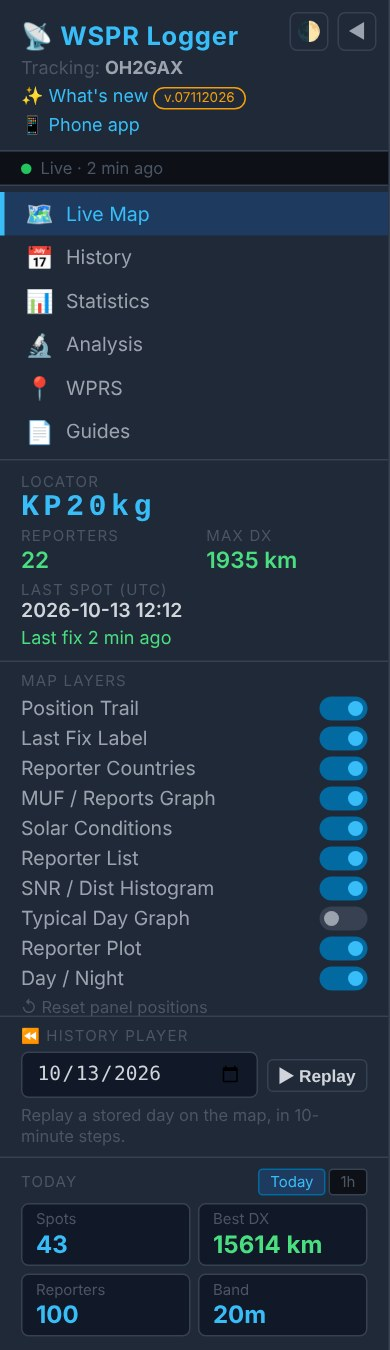
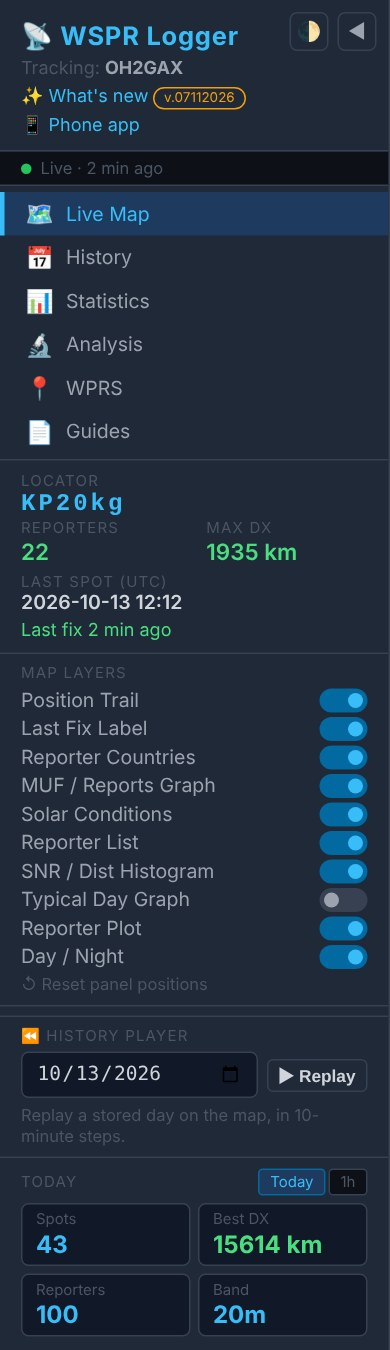
Live map UI tuning

diff --git a/static/css/app.css b/static/css/app.css
@@ -253,7 +253,7 @@ nav {
 }
 .lbl:first-child { margin-top: 0; }
 .val { font-size: 15px; font-weight: 600; color: var(--text-primary); }
-.val.mono { font-family: 'Courier New', monospace; font-size: 20px; line-height: 1.2; color: var(--accent); letter-spacing: 3px; }
+.val.mono { font-family: 'Courier New', monospace; font-size: 16px; line-height: 1.2; color: var(--accent); letter-spacing: 2px; }   /* 20px until 2026-11-09: smaller so the Map Layers fit */
 .val.green { color: var(--green); }
 .val.sm  { font-size: 13px; }
 .row2 { display: flex; gap: 16px; }
@@ -293,7 +293,7 @@ select:focus, input:focus { border-color: var(--accent); }
     justify-content: space-between;
     font-size: 13px;
     color: var(--text-secondary);
-    margin-bottom: 4px;
+    margin-bottom: 3px;
 }
 .toggle-row:last-child { margin-bottom: 0; }
 .sw {

diff --git a/doc/whats_new.md b/doc/whats_new.md
@@ -8,7 +8,7 @@ version shown under the page title.
 
 - **Typical day on the live map** — the new *Typical Day Graph* switch under Map Layers shows the *Typical day (UTC)* chart of the Analysis page at the bottom left of the map: how many stations usually hear the car at each UTC hour over the last 7, 14, 30 or 90 days, with today on top, so you see at once whether the band is better or worse than usual. Drag it by its title anywhere and make it bigger or smaller from its lower right corner; it keeps its place and size.
 - **foF2 in the MUF graph** — the *foF2* button beside *1d / 2d / 3d / 1wk* adds the foF2 of Juliusruh to the MUF / Reports graph as an amber line on the same MHz scale. foF2 has been stored since early November 2026, so the line starts there.
-- **A tidier menu** — the latitude and longitude are gone from the Locator block on the left, so the Map Layers switches have more room.
+- **A tidier menu** — the latitude and longitude are gone from the Locator block on the left and the locator is a little smaller, so all the Map Layers switches fit without scrolling in a window about 900 pixels high.
 - **Reporter list both ways** — click *SNR* or *Dist* in the Reporters list on the live map to sort by it, largest first; click again for smallest first (▴) — the weakest stations, or the nearest ones. The order is remembered.
 
 - **MUF card range** — under *Live map options*, *MUF card range* now sets how far back the MUF card on the phone's Live map looks: *24 h* (as before), *2 days*, *3 days* or *1 week*. The longer periods are shown hour by hour, with the weekday at each midnight, so the daily rise and fall of the MUF and the reporters stands out even in the small card; hours without data stay empty. Remembered on the phone.

diff --git a/CHANGELOG.md b/CHANGELOG.md
@@ -44,7 +44,10 @@ Format follows [Keep a Changelog](https://keepachangelog.com/en/1.1.0/).
 ### Changed
 - **Shorter Locator block in the sidebar** — the Latitude / Longitude row (`#infoLat`,
   `#infoLon`) is removed, leaving more room for the Map Layers switches; the locator, reporters,
-  Max DX and last spot stay.
+  Max DX and last spot stay. The locator is set smaller (`.val.mono` 16 px instead of 20 px,
+  letter spacing 2 px) and the switch rows 1 px closer (`.toggle-row` margin 3 px), so all the
+  Map Layers switches, the History Player and Today fit without scrolling from a window about
+  900 px high.
 - **MUF graph follows the theme at once** — a theme change refetches the MUF graph so its axis
   and grid colours change immediately instead of at the next poll.
 
